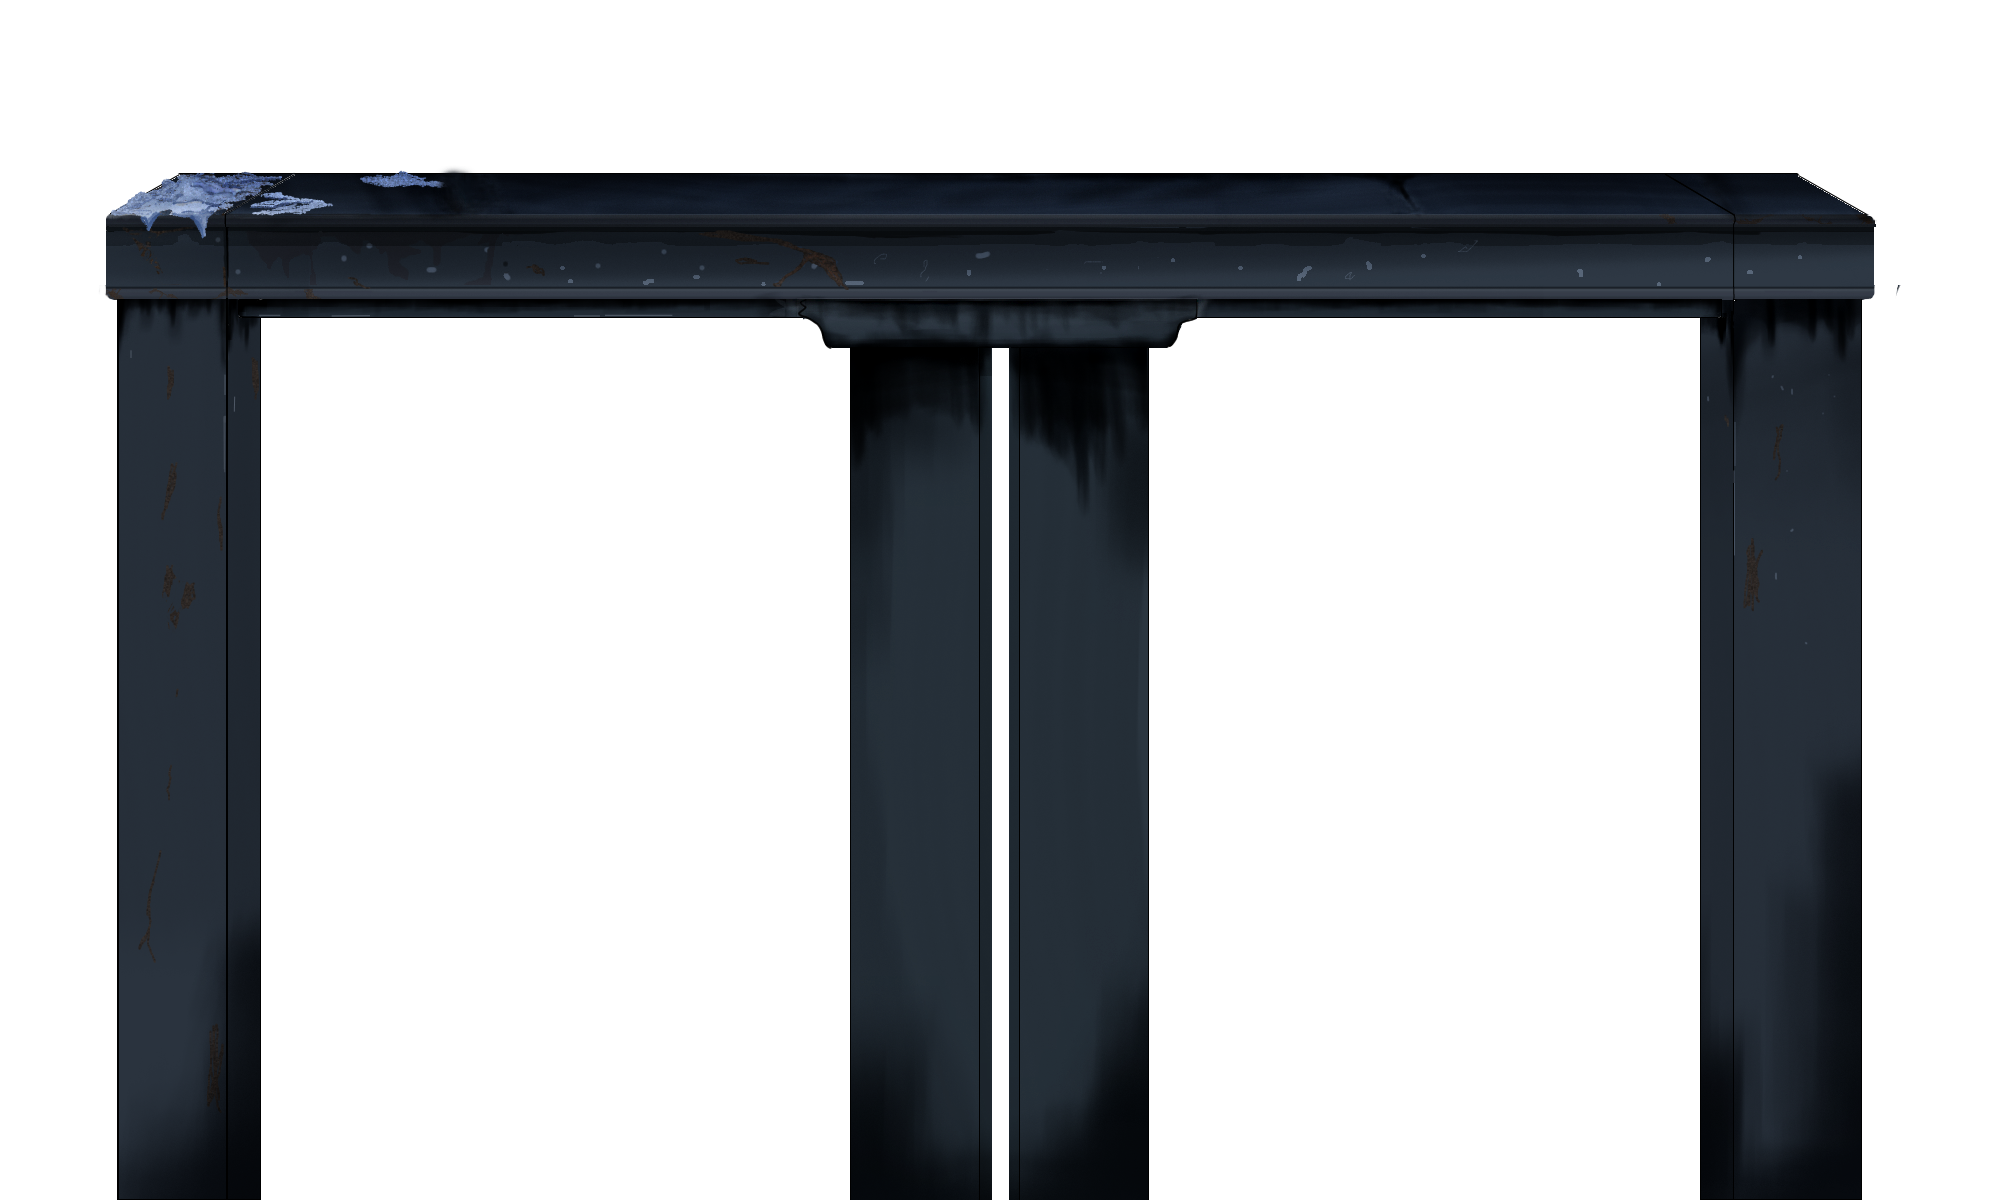
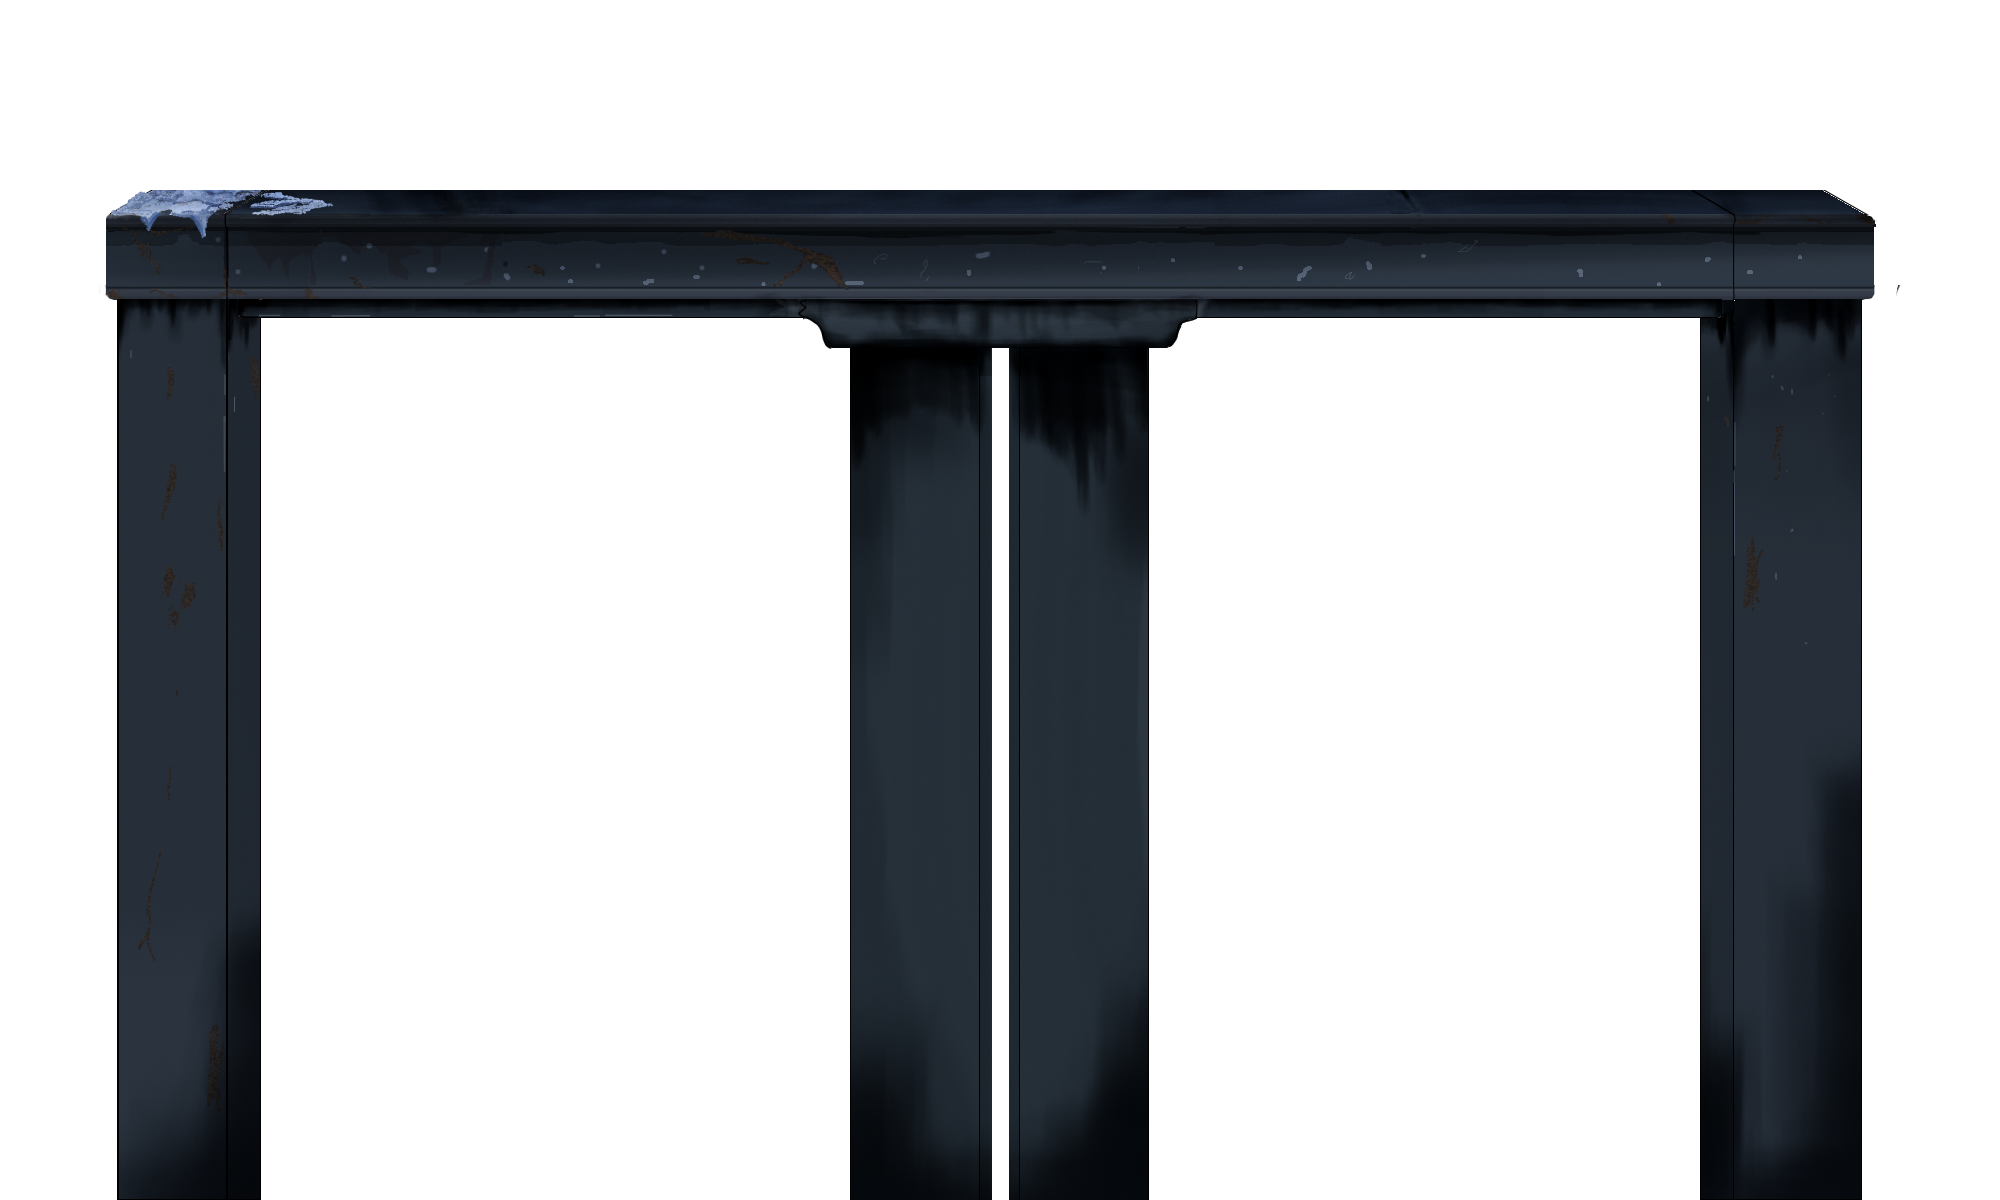
fixes and stuff

Changed region(s): [[0.093, 0.1233, 0.899, 0.185]]

diff --git a/players.js b/players.js
@@ -32,6 +32,7 @@ export function initiatePlayers(scene, p1Select = 'axeman', p2Select = 'swordman
     }
     
     for (const key in players) {
+        //PLAYER VARIABLES.
         const p = players[key];
         p.setDepth(5);
         // Attack availability and combo state.
@@ -95,6 +96,7 @@ export function initiatePlayers(scene, p1Select = 'axeman', p2Select = 'swordman
             hasHitSideSpecial: false,
             hasDoubleJumped: false
         });
+        p.currentPlatform = null;
         p.doubleJumpEffect = scene.add.image(
             p.x,
             p.y + 40, 'doublejump');
@@ -156,9 +158,9 @@ export function initiatePlayers(scene, p1Select = 'axeman', p2Select = 'swordman
         });
         const selectedCharacter = p.id === 1 ? p1Select : p2Select;
         if (selectedCharacter.toUpperCase() === 'GUNMAN') {
-            p.dirSpecialCooldown = 10000;
-        } else if (selectedCharacter.toUpperCase() === 'AXEMAN' && p.variant === "CHAINSAW") {
             p.dirSpecialCooldown = 4000;
+        } else if (selectedCharacter.toUpperCase() === 'AXEMAN' && p.variant === "CHAINSAW") {
+            p.dirSpecialCooldown = 3000;
         }
         if (modifierOptions.SLUGGISH.enabled) {
             p.baseMovementSpeed -= 150;

diff --git a/attacks.js b/attacks.js
@@ -46,6 +46,11 @@ function getMapPlatforms(scene) {
         ...scene.gameState.map.topPlatforms.getChildren()
     ].filter(platform => platform.active && platform.body?.enable);
 }
+function platformsWithoutStandingPlatform(scene, player) {
+    const platforms = getMapPlatforms(scene);
+
+    return platforms.filter(platform => platform !== player.currentPlatform);
+}
 
 function getGroundedPlatform(scene, attacker, platforms = getMapPlatforms(scene)) {
     const playerBody = attacker.body;
@@ -2055,14 +2060,10 @@ export function tryPull(scene, player, target, direction, currentTime) {
                 });
                 cleanup();
             }),
+
             scene.physics.add.overlap(
                 hook,
-                scene.gameState.map.platforms,
-                latchToPlatform
-            ),
-            scene.physics.add.overlap(
-                hook,
-                scene.gameState.map.topPlatforms,
+                platformsWithoutStandingPlatform(scene, player),
                 latchToPlatform
             ),
             scene.physics.add.overlap(hook, scene.planks, latchToPlatform)

diff --git a/main.js b/main.js
@@ -1435,6 +1435,22 @@ function updateKB(scene) {
         }
     }
 }
+
+function getMapPlatforms(scene) {
+    return [
+        ...scene.gameState.map.platforms.getChildren(),
+        ...scene.gameState.map.topPlatforms.getChildren()
+    ].filter(platform => platform.active && platform.body?.enable);
+}
+function processPlatformCollide(player, platform) {
+  return true;
+}
+
+function handlePlatformCollide(player, platform) {
+  if (player.body.touching.down && platform.body.touching.up) {    
+    player.currentPlatform = platform;
+  }
+}
 export var fiveframecount = 0;
 
 function update() {
@@ -1630,6 +1646,11 @@ function update() {
         player.chopped = this.time.now < player.choppedUntil;
         //player.canAttack =
             //this.time.now < player.canAttackUntil;
+
+        const platforms = getMapPlatforms(this);
+        platforms.forEach(platform => {
+            handlePlatformCollide(player, platform);
+        });
     };
     updateScythemanGrass(this, this.gameState.players);
     updateCombo(p1, this.game.loop.delta);

diff --git a/playerAttackScripts/axeman.js b/playerAttackScripts/axeman.js
@@ -365,6 +365,7 @@ function handleDirSpecial(api, scene, attacker, direction, currentTime, victim) 
 function neutralPlaceAndHarvest(api, scene, attacker, victim) {
     if (attacker.body.blocked.down || attacker.body.touching.down) {
         attacker.lastDir = { x: 0, y: 1 };
+        if (!attacker.chainsawMode) toggleChainsawMode(scene, attacker);
         if (!attacker.chainsawActive) activateChainsaw(api, scene, attacker, victim);
         api.positionAttackSprite(attacker, 'activechainsaw');
         return;

diff --git a/playerAttackScripts/gunman.js b/playerAttackScripts/gunman.js
@@ -273,7 +273,7 @@ function handleGunmanSpecial(api, scene, attacker, direction, currentTime, victi
         const fireBullet = () => {
             if (!attacker.active || !victim.active) return;
             handleShot(api, scene, attacker, victim, {
-                damageIncrement: 0.015,
+                damageIncrement: 0.01,
                 hitstunDuration: 100,
                 freezeDuration: 50,
                 ignoreCooldown: true,
